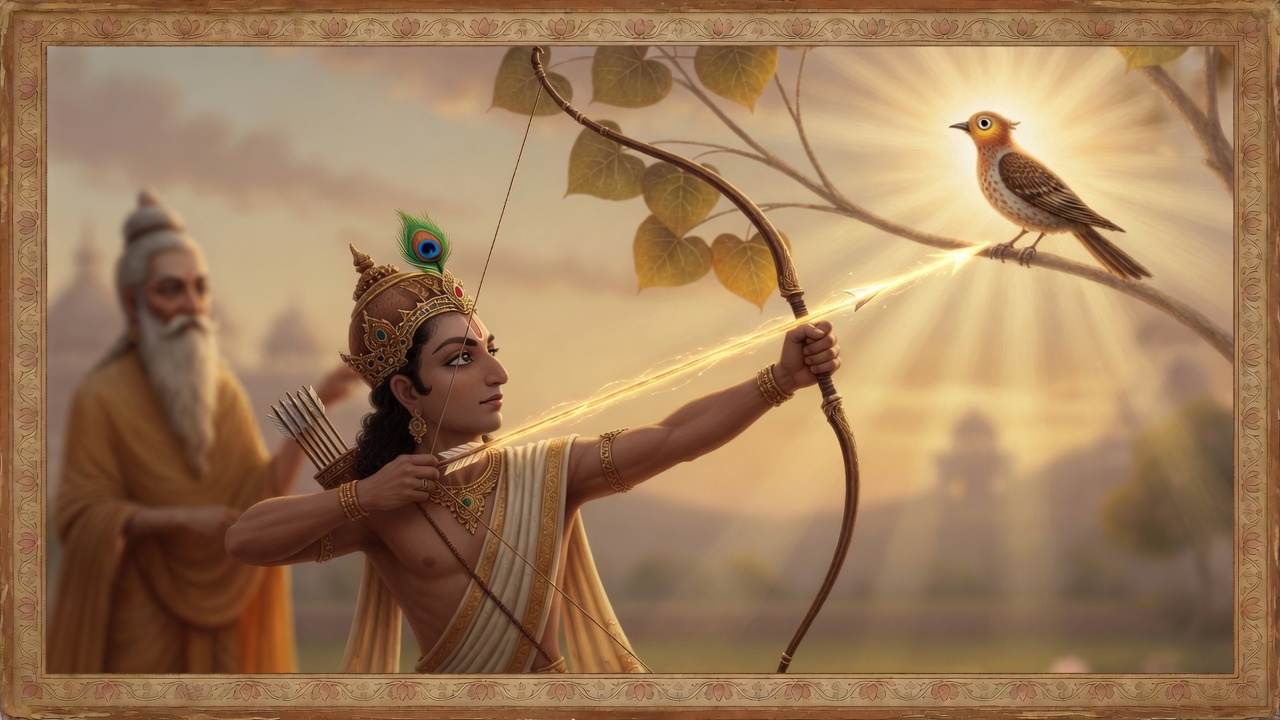
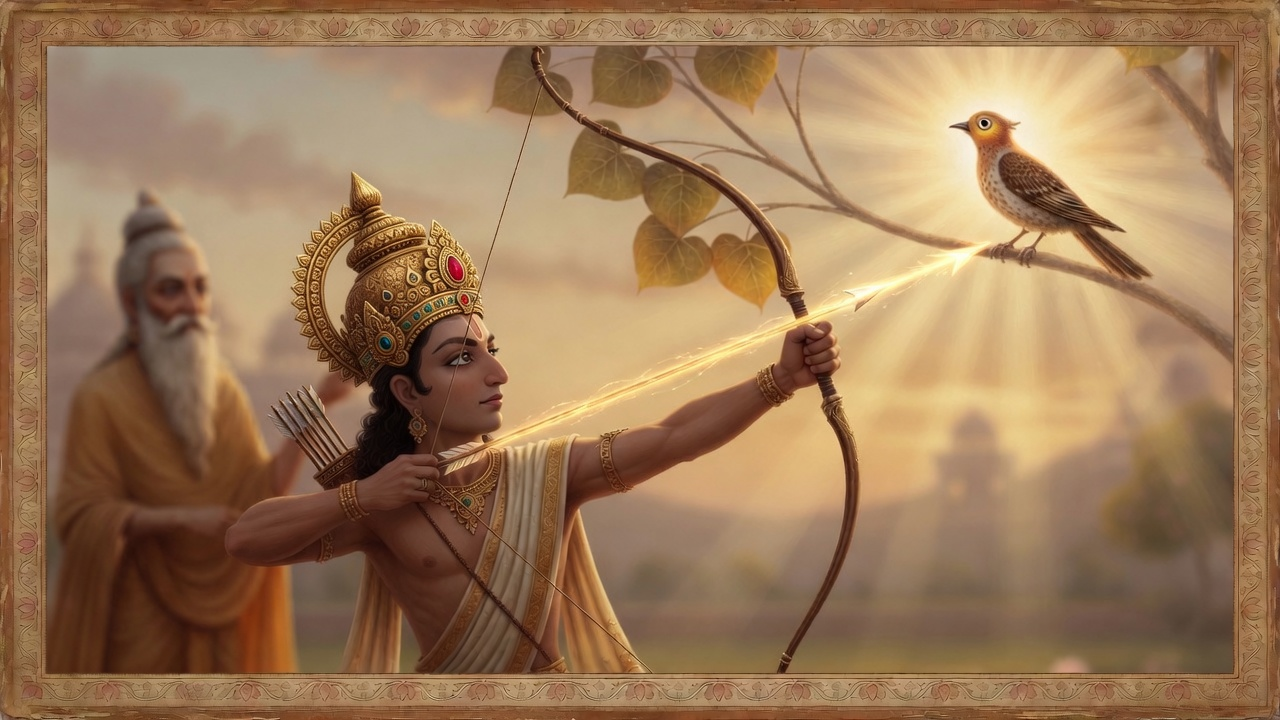
fix(mahabharata): remove peacock feather from Arjuna crown
All Arjuna plates: gold crown only, no plume; cache-bust stills.

Changed region(s): [[0.2188, 0.2444, 0.375, 0.55]]

diff --git a/mahabharata/js/main.js b/mahabharata/js/main.js
@@ -40,7 +40,7 @@ class Kathavachak {
     this._fallbackVoice = null;
     // Relative to play.html in mahabharata/
     this.base = EPISODE.voice?.base || "episodes/01-birds-eye/audio/";
-    this.cacheTag = EPISODE.voice?.cache || "orion1";
+    this.cacheTag = EPISODE.voice?.cache || "nofeather1";
     if (typeof speechSynthesis !== "undefined") {
       speechSynthesis.getVoices();
       speechSynthesis.addEventListener("voiceschanged", () => this._pickFallback());
@@ -514,7 +514,7 @@ resize();
 // Load plates
 const plateCache = new Map();
 const plateBase = "episodes/01-birds-eye/stills/";
-const plateCacheTag = EPISODE.voice?.cache || "orion1";
+const plateCacheTag = EPISODE.voice?.cache || "nofeather1";
 
 function loadPlate(name) {
   if (plateCache.has(name)) return plateCache.get(name);

diff --git a/mahabharata/episodes/01-birds-eye/script.js b/mahabharata/episodes/01-birds-eye/script.js
@@ -11,7 +11,7 @@ export const EPISODE = {
   voice: {
     provider: "grok-tts",
     voice_id: "orion",
-    cache: "orion1-goldfix",
+    cache: "nofeather1",
     note: "Deep heroic male Grok voice (orion @ ~0.82). Files: orion-NN.mp3 (filenames kept, content is orion)",
     base: "episodes/01-birds-eye/audio/",
   },
